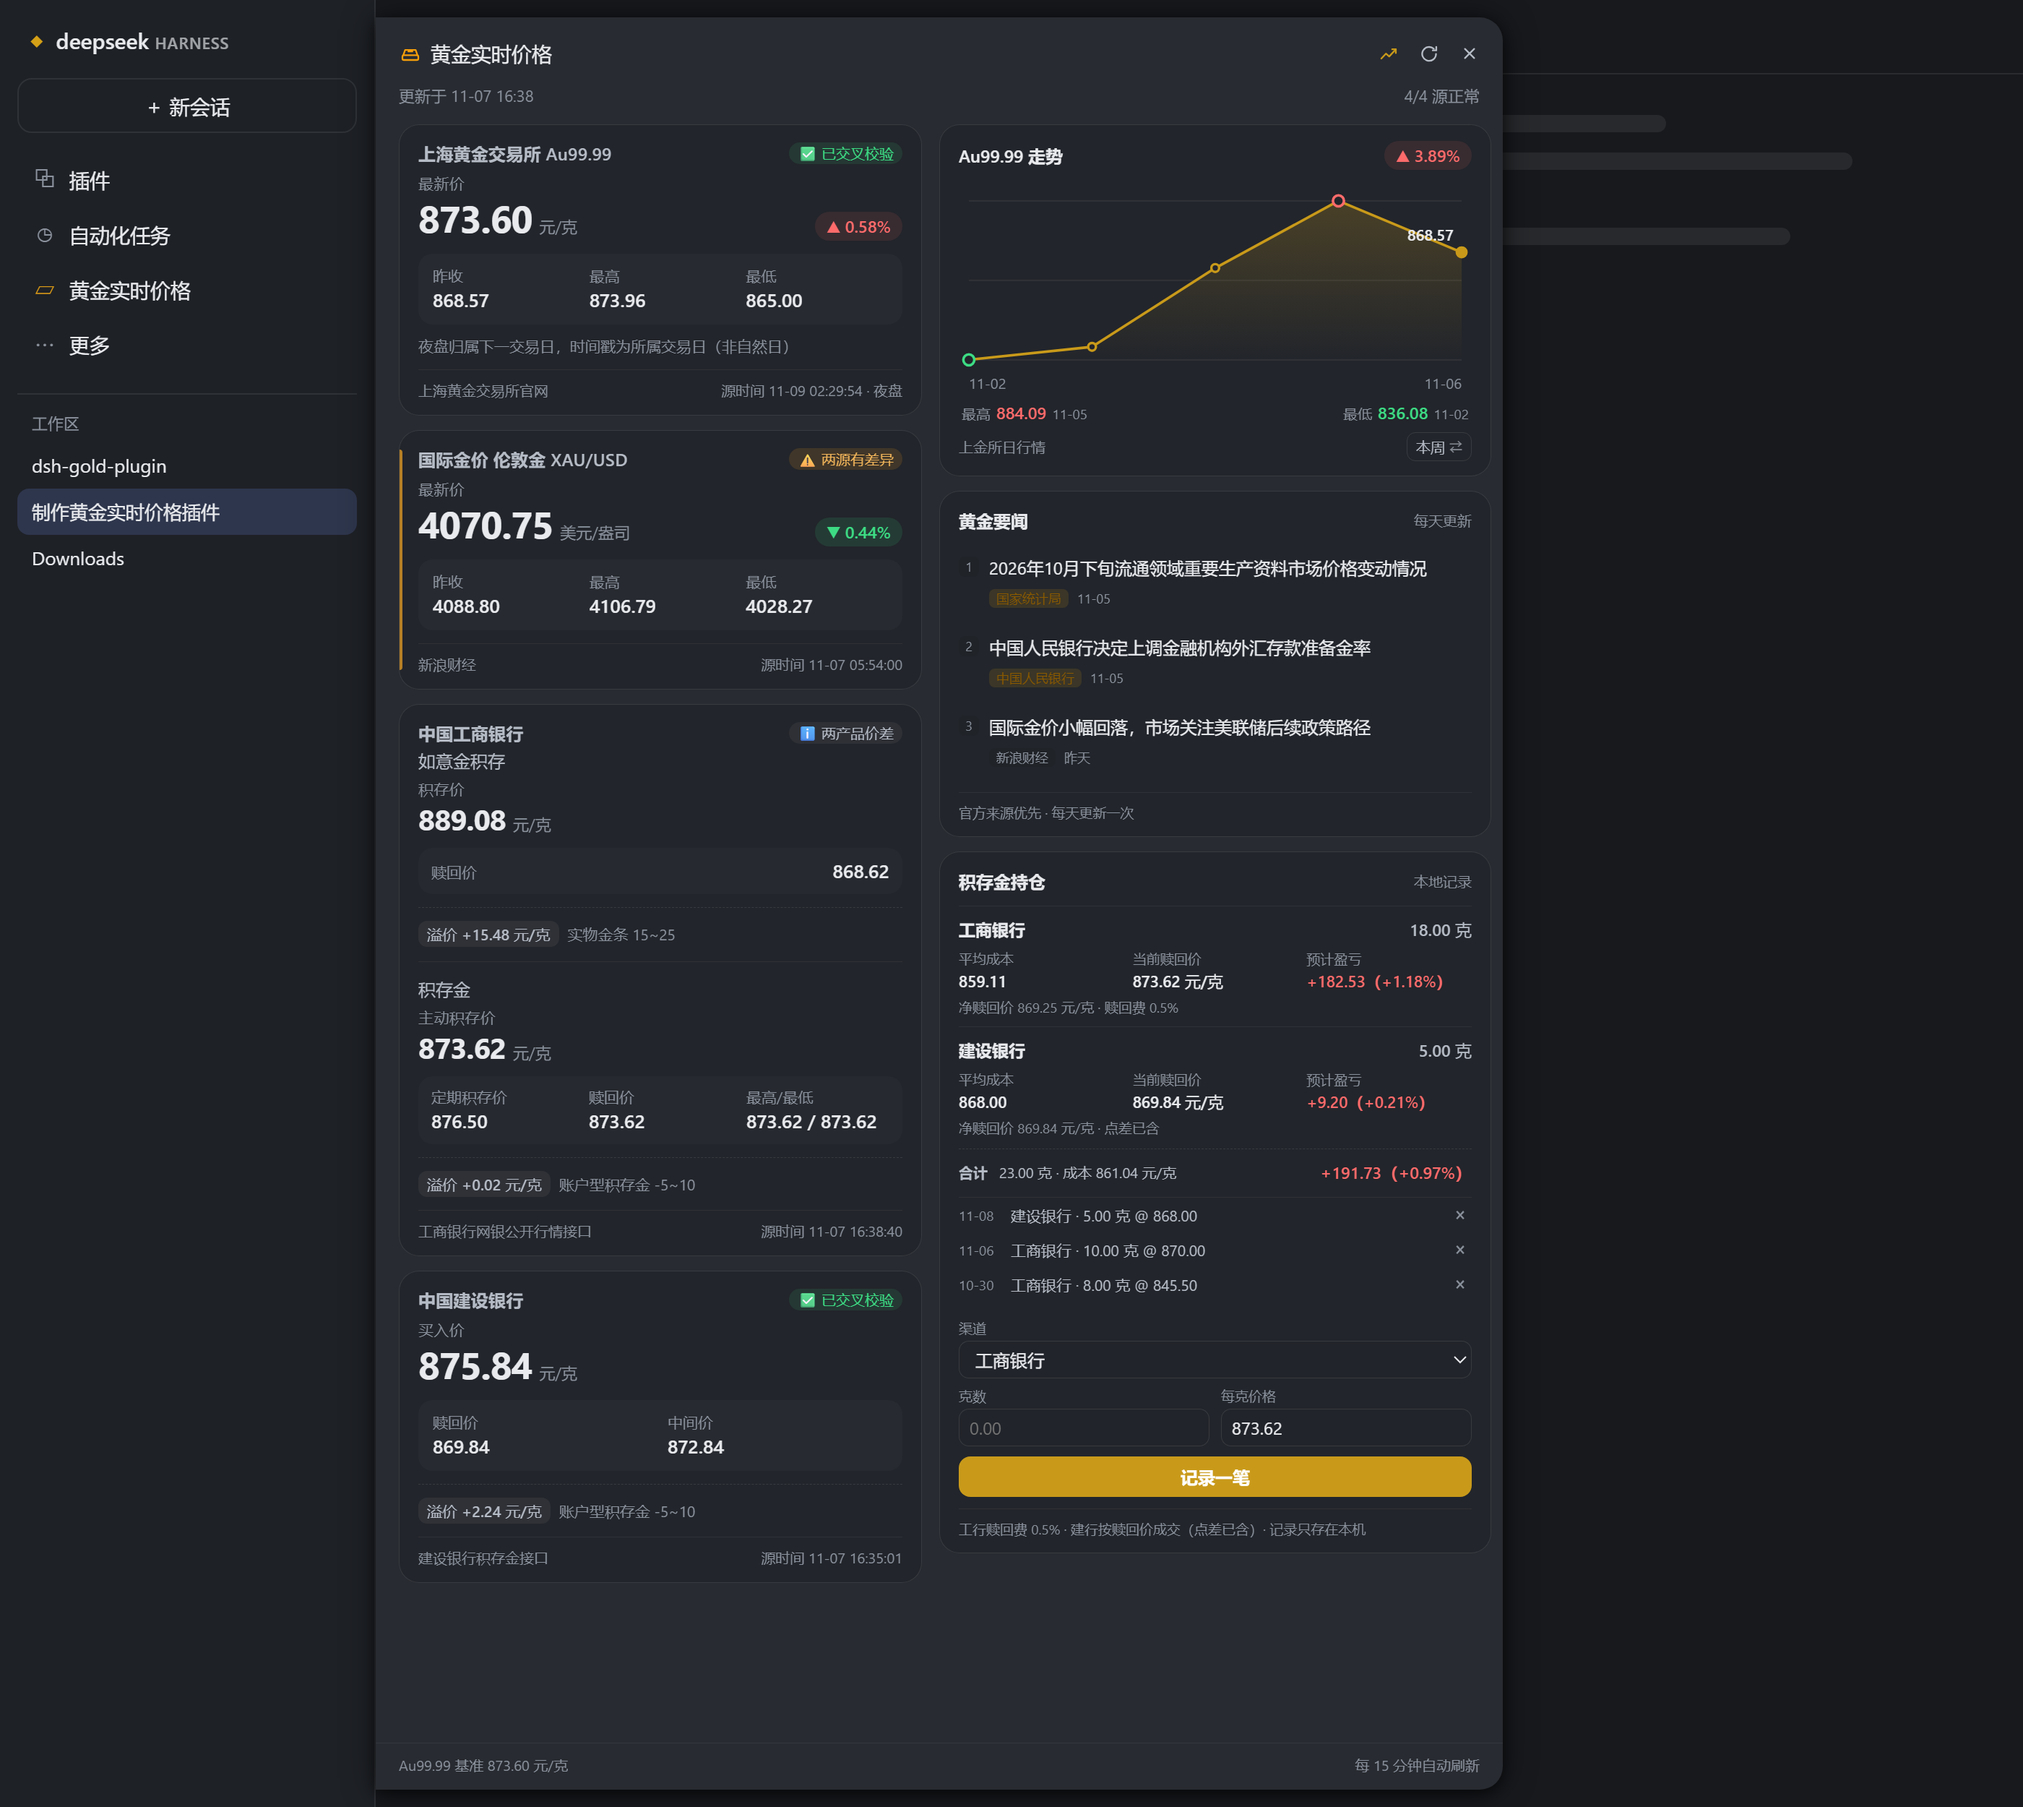
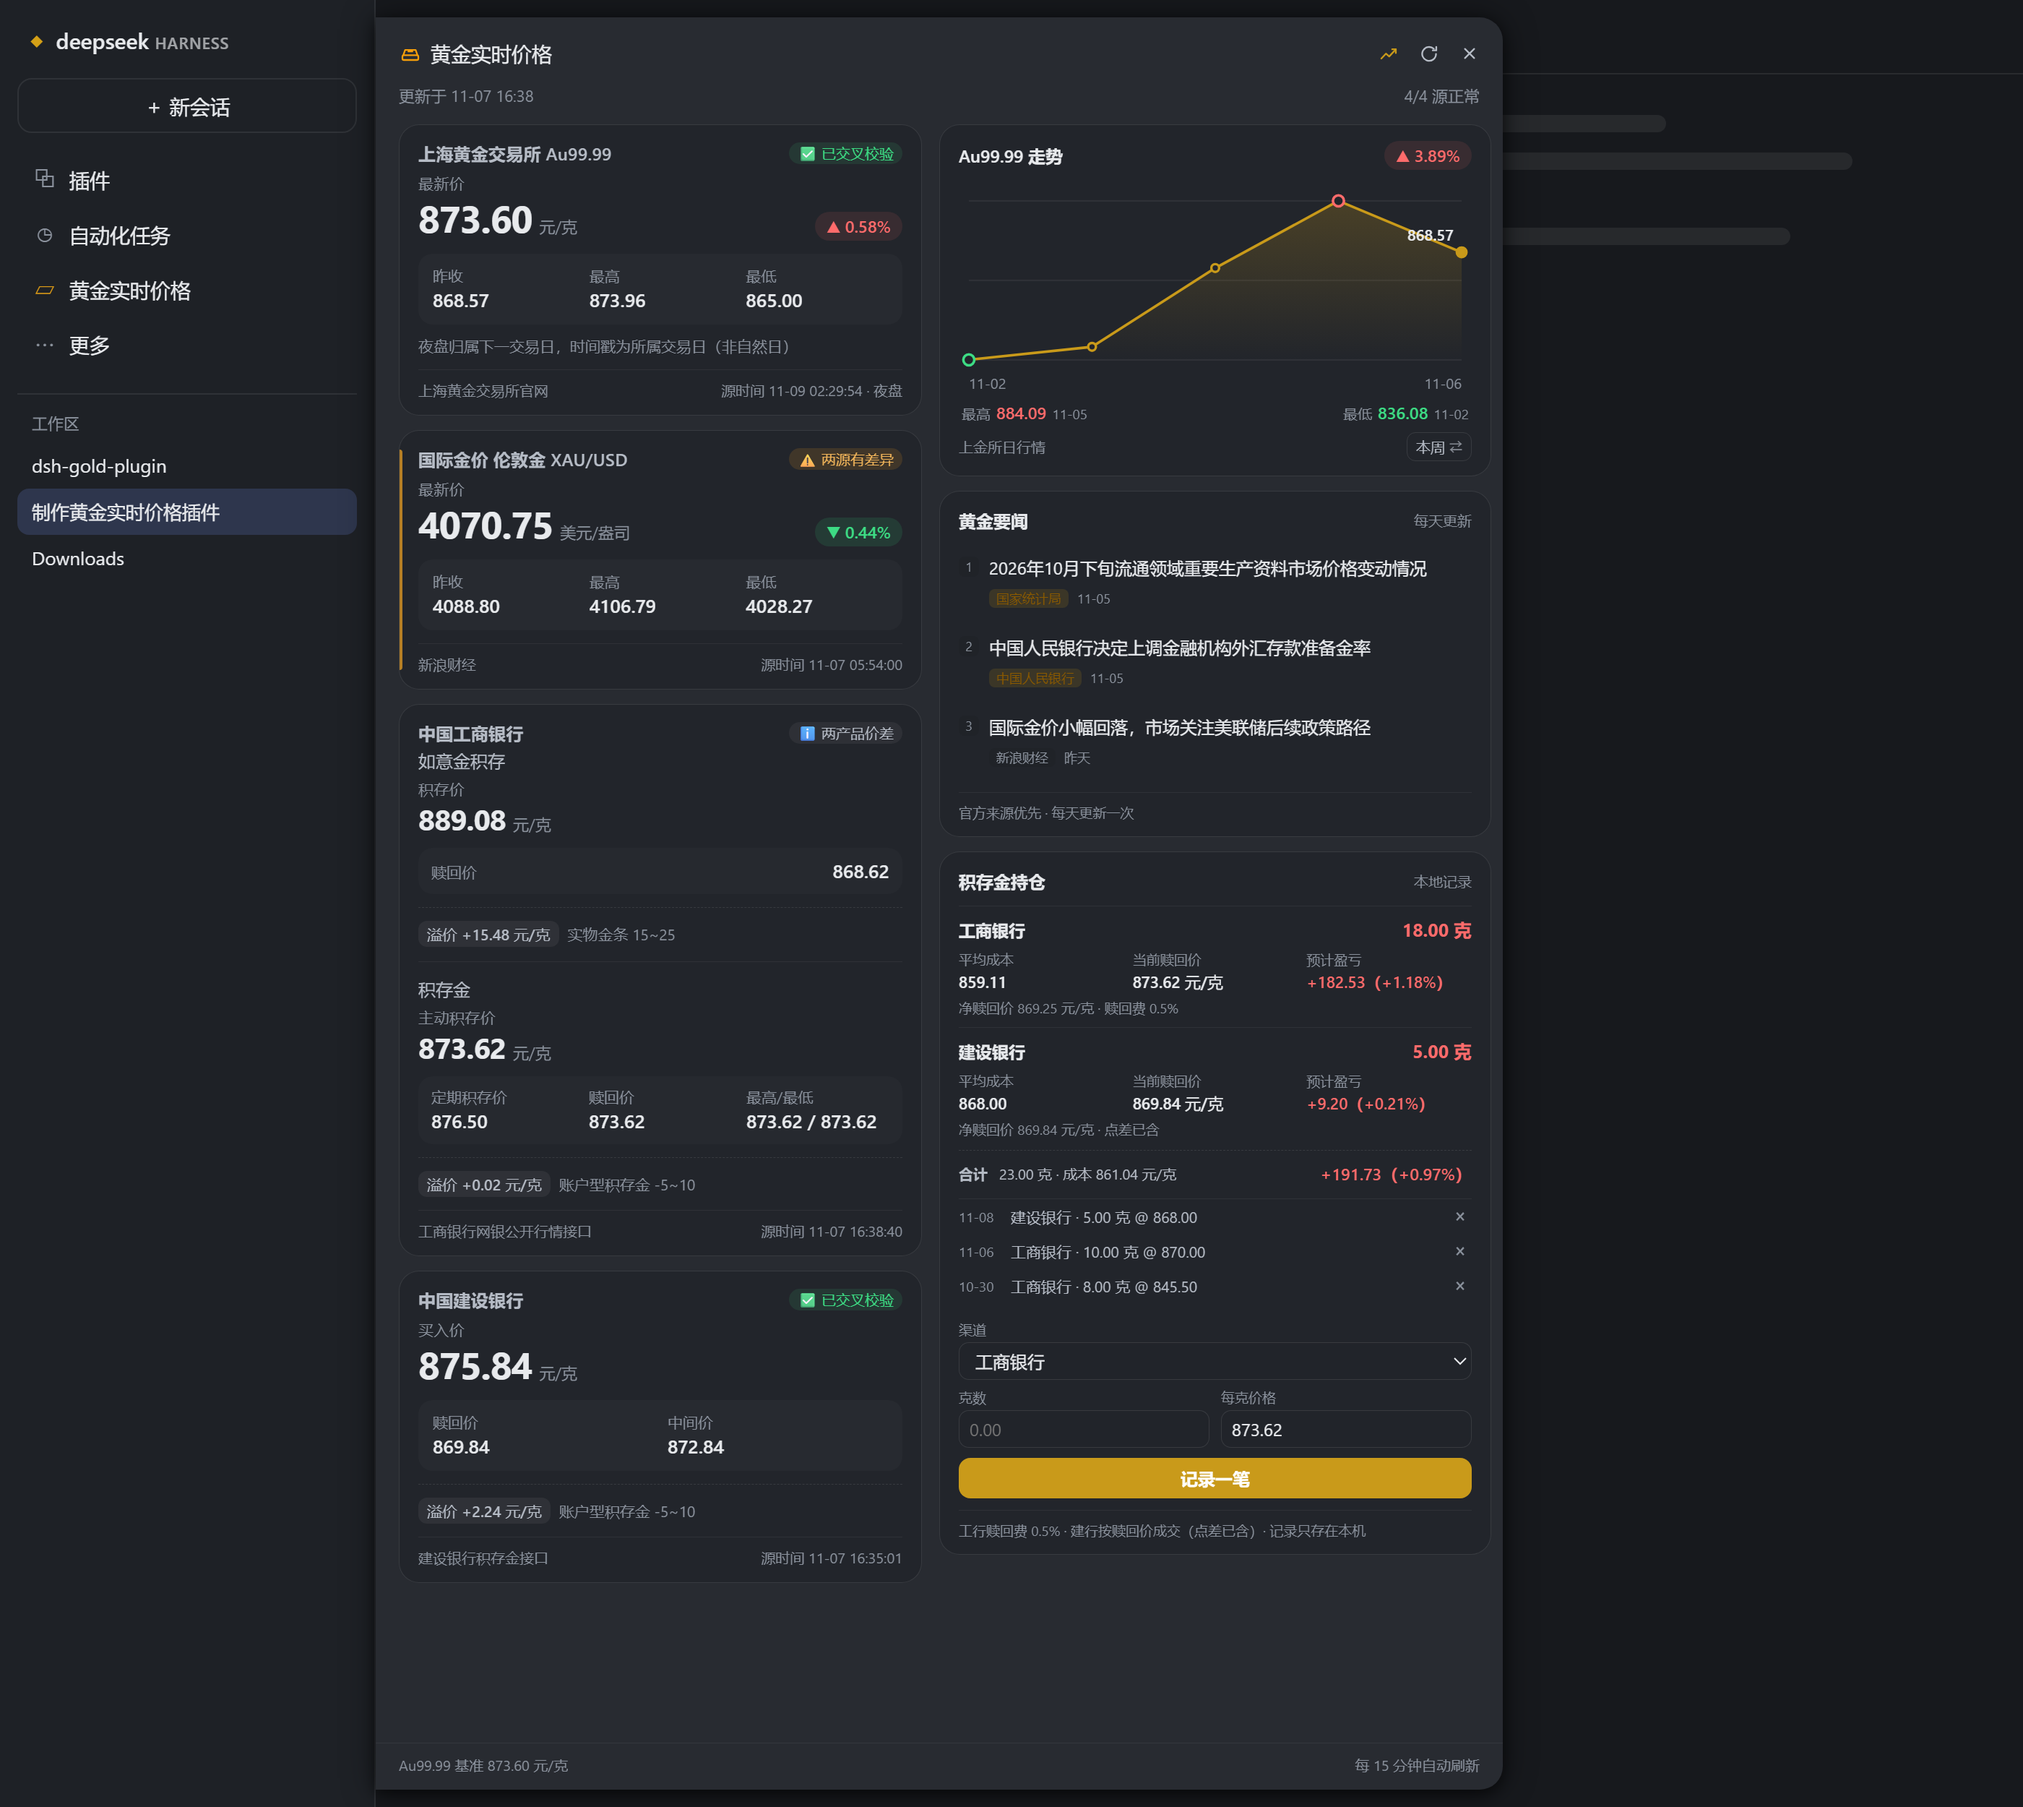
style: 持仓克数加大加粗标红
- .dsh-gold-pos-ch-grams：11.5px/500 灰 → 12.5px/700 强调红，一眼看到持有克数
- panel 3.8.3 / 插件 1.9.3；截图更新

diff --git a/assets/panel.css b/assets/panel.css
@@ -1300,9 +1300,9 @@
 }
 
 .dsh-gold-pos-ch-grams {
-  color: var(--dsw-alias-label-secondary, #4e5969);
-  font-size: 11.5px;
-  font-weight: 500;
+  color: var(--dsw-alias-state-error-primary, #ec1313);
+  font-size: 12.5px;
+  font-weight: 700;
   font-variant-numeric: tabular-nums;
 }
 
@@ -1500,6 +1500,7 @@
     animation: none;
   }
 }
+
 
 
 

diff --git a/assets/panel.js b/assets/panel.js
@@ -31,7 +31,7 @@
   // 常量
   // ---------------------------------------------------------------------------
 
-  var VERSION = '3.8.2'
+  var VERSION = '3.8.3'
   var API = '/dsh-gold/api/quotes'
   var EXTRAS_API = '/dsh-gold/api/extras'
   var MOUNTED_API = '/dsh-gold/api/mounted'
@@ -2646,6 +2646,7 @@
 
   start()
 })()
+
 
 
 
